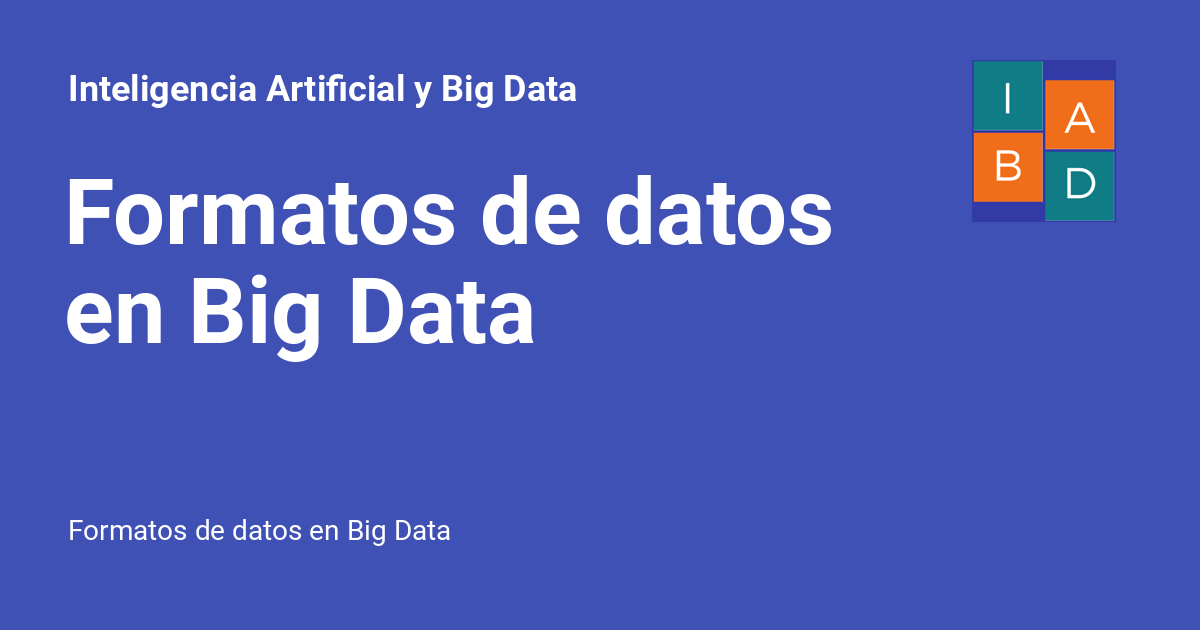
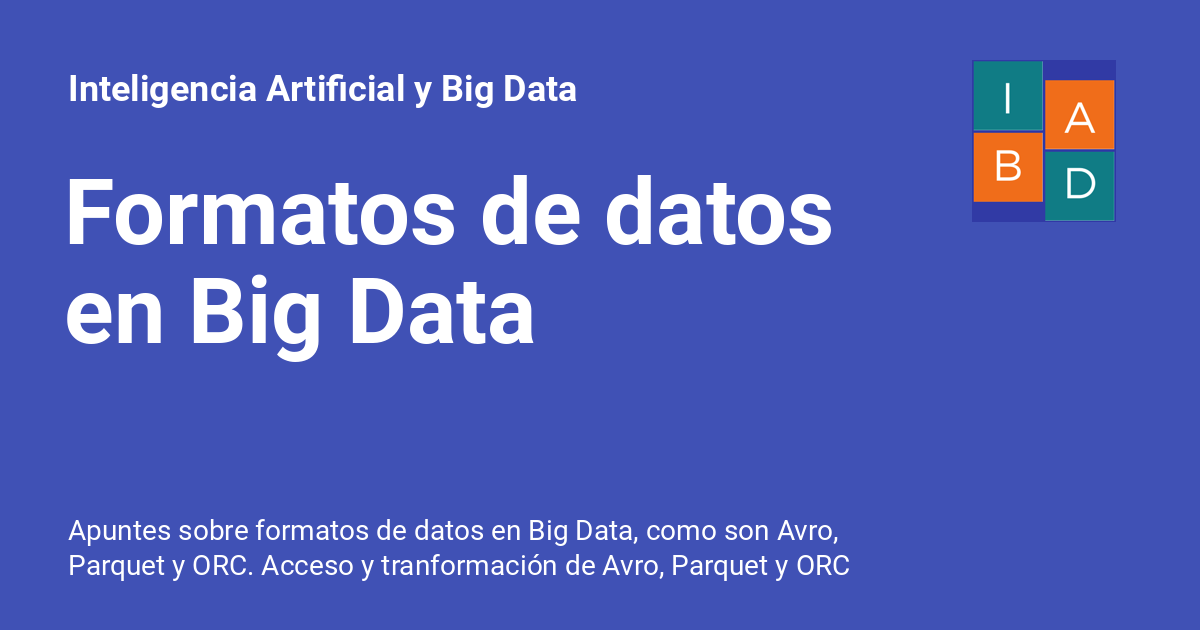
Deployed 21ec331 with MkDocs version: 1.4.0

Changed region(s): [[0.0617, 0.8143, 0.7092, 0.9349]]

diff --git a/hadoop/05flume.html b/hadoop/05flume.html
@@ -6,7 +6,7 @@
       <meta charset="utf-8">
       <meta name="viewport" content="width=device-width,initial-scale=1">
       
-        <meta name="description" content="Uso de Sqoop para leer y escribir datos en HDFS y MariaDB, con formatos de datos tanto Avro como Parquet. Mediante Flume estudiamos el uso de agentes, sources y sinks para conectar diferentes agentes y realizar un proceso de ingesta de datos en streaming.">
+        <meta name="description" content="Apuntes sobre el uso de Sqoop para leer y escribir datos en HDFS y MariaDB, con formatos de datos tanto Avro como Parquet. Mediante Flume estudiamos el uso de agentes, sources y sinks para conectar diferentes agentes y realizar un proceso de ingesta de datos en streaming.">
       
       
       
@@ -66,7 +66,7 @@
       
         <meta  property="og:title"  content="Sqoop y Flume. Herramientas de ingesta de datos en y desde Hadoop. - Inteligencia Artificial y Big Data" >
       
-        <meta  property="og:description"  content="Uso de Sqoop para leer y escribir datos en HDFS y MariaDB, con formatos de datos tanto Avro como Parquet. Mediante Flume estudiamos el uso de agentes, sources y sinks para conectar diferentes agentes y realizar un proceso de ingesta de datos en streaming." >
+        <meta  property="og:description"  content="Apuntes sobre el uso de Sqoop para leer y escribir datos en HDFS y MariaDB, con formatos de datos tanto Avro como Parquet. Mediante Flume estudiamos el uso de agentes, sources y sinks para conectar diferentes agentes y realizar un proceso de ingesta de datos en streaming." >
       
         <meta  property="og:image"  content="https://aitor-medrano.github.io/iabd2223/assets/images/social/hadoop/05flume.png" >
       
@@ -82,7 +82,7 @@
       
         <meta  name="twitter:title"  content="Sqoop y Flume. Herramientas de ingesta de datos en y desde Hadoop. - Inteligencia Artificial y Big Data" >
       
-        <meta  name="twitter:description"  content="Uso de Sqoop para leer y escribir datos en HDFS y MariaDB, con formatos de datos tanto Avro como Parquet. Mediante Flume estudiamos el uso de agentes, sources y sinks para conectar diferentes agentes y realizar un proceso de ingesta de datos en streaming." >
+        <meta  name="twitter:description"  content="Apuntes sobre el uso de Sqoop para leer y escribir datos en HDFS y MariaDB, con formatos de datos tanto Avro como Parquet. Mediante Flume estudiamos el uso de agentes, sources y sinks para conectar diferentes agentes y realizar un proceso de ingesta de datos en streaming." >
       
         <meta  name="twitter:image"  content="https://aitor-medrano.github.io/iabd2223/assets/images/social/hadoop/05flume.png" >
       

diff --git a/hadoop/04hdfs.html b/hadoop/04hdfs.html
@@ -6,7 +6,7 @@
       <meta charset="utf-8">
       <meta name="viewport" content="width=device-width,initial-scale=1">
       
-        <meta name="description" content="Funcionamiento de HDFS, estudiando los procesos de lectura y escritura, los comandos de administración y el uso de Snapshots. Almacenamiento de datos en formatos Avro y Parquet mediante Python.">
+        <meta name="description" content="Apuntes sobre el funcionamiento de HDFS, estudiando los procesos de lectura y escritura, los comandos de administración y el uso de Snapshots. Acceso a HDFS desde Python.">
       
       
       
@@ -66,7 +66,7 @@
       
         <meta  property="og:title"  content="HDFS, acceso y gestión. HDFS y Python. Formatos de datos Avro y Parquet. - Inteligencia Artificial y Big Data" >
       
-        <meta  property="og:description"  content="Funcionamiento de HDFS, estudiando los procesos de lectura y escritura, los comandos de administración y el uso de Snapshots. Almacenamiento de datos en formatos Avro y Parquet mediante Python." >
+        <meta  property="og:description"  content="Apuntes sobre el funcionamiento de HDFS, estudiando los procesos de lectura y escritura, los comandos de administración y el uso de Snapshots. Acceso a HDFS desde Python." >
       
         <meta  property="og:image"  content="https://aitor-medrano.github.io/iabd2223/assets/images/social/hadoop/04hdfs.png" >
       
@@ -82,7 +82,7 @@
       
         <meta  name="twitter:title"  content="HDFS, acceso y gestión. HDFS y Python. Formatos de datos Avro y Parquet. - Inteligencia Artificial y Big Data" >
       
-        <meta  name="twitter:description"  content="Funcionamiento de HDFS, estudiando los procesos de lectura y escritura, los comandos de administración y el uso de Snapshots. Almacenamiento de datos en formatos Avro y Parquet mediante Python." >
+        <meta  name="twitter:description"  content="Apuntes sobre el funcionamiento de HDFS, estudiando los procesos de lectura y escritura, los comandos de administración y el uso de Snapshots. Acceso a HDFS desde Python." >
       
         <meta  name="twitter:image"  content="https://aitor-medrano.github.io/iabd2223/assets/images/social/hadoop/04hdfs.png" >
       

diff --git a/hadoop/04formatos.html b/hadoop/04formatos.html
@@ -6,7 +6,7 @@
       <meta charset="utf-8">
       <meta name="viewport" content="width=device-width,initial-scale=1">
       
-        <meta name="description" content="Formatos de datos en Big Data">
+        <meta name="description" content="Apuntes sobre formatos de datos en Big Data, como son Avro, Parquet y ORC. Acceso y tranformación de Avro, Parquet y ORC desde Python mediante PyArrow y Pandas.">
       
       
       
@@ -66,7 +66,7 @@
       
         <meta  property="og:title"  content="Formatos de datos en Big Data - Inteligencia Artificial y Big Data" >
       
-        <meta  property="og:description"  content="Formatos de datos en Big Data" >
+        <meta  property="og:description"  content="Apuntes sobre formatos de datos en Big Data, como son Avro, Parquet y ORC. Acceso y tranformación de Avro, Parquet y ORC desde Python mediante PyArrow y Pandas." >
       
         <meta  property="og:image"  content="https://aitor-medrano.github.io/iabd2223/assets/images/social/hadoop/04formatos.png" >
       
@@ -82,7 +82,7 @@
       
         <meta  name="twitter:title"  content="Formatos de datos en Big Data - Inteligencia Artificial y Big Data" >
       
-        <meta  name="twitter:description"  content="Formatos de datos en Big Data" >
+        <meta  name="twitter:description"  content="Apuntes sobre formatos de datos en Big Data, como son Avro, Parquet y ORC. Acceso y tranformación de Avro, Parquet y ORC desde Python mediante PyArrow y Pandas." >
       
         <meta  name="twitter:image"  content="https://aitor-medrano.github.io/iabd2223/assets/images/social/hadoop/04formatos.png" >
       
